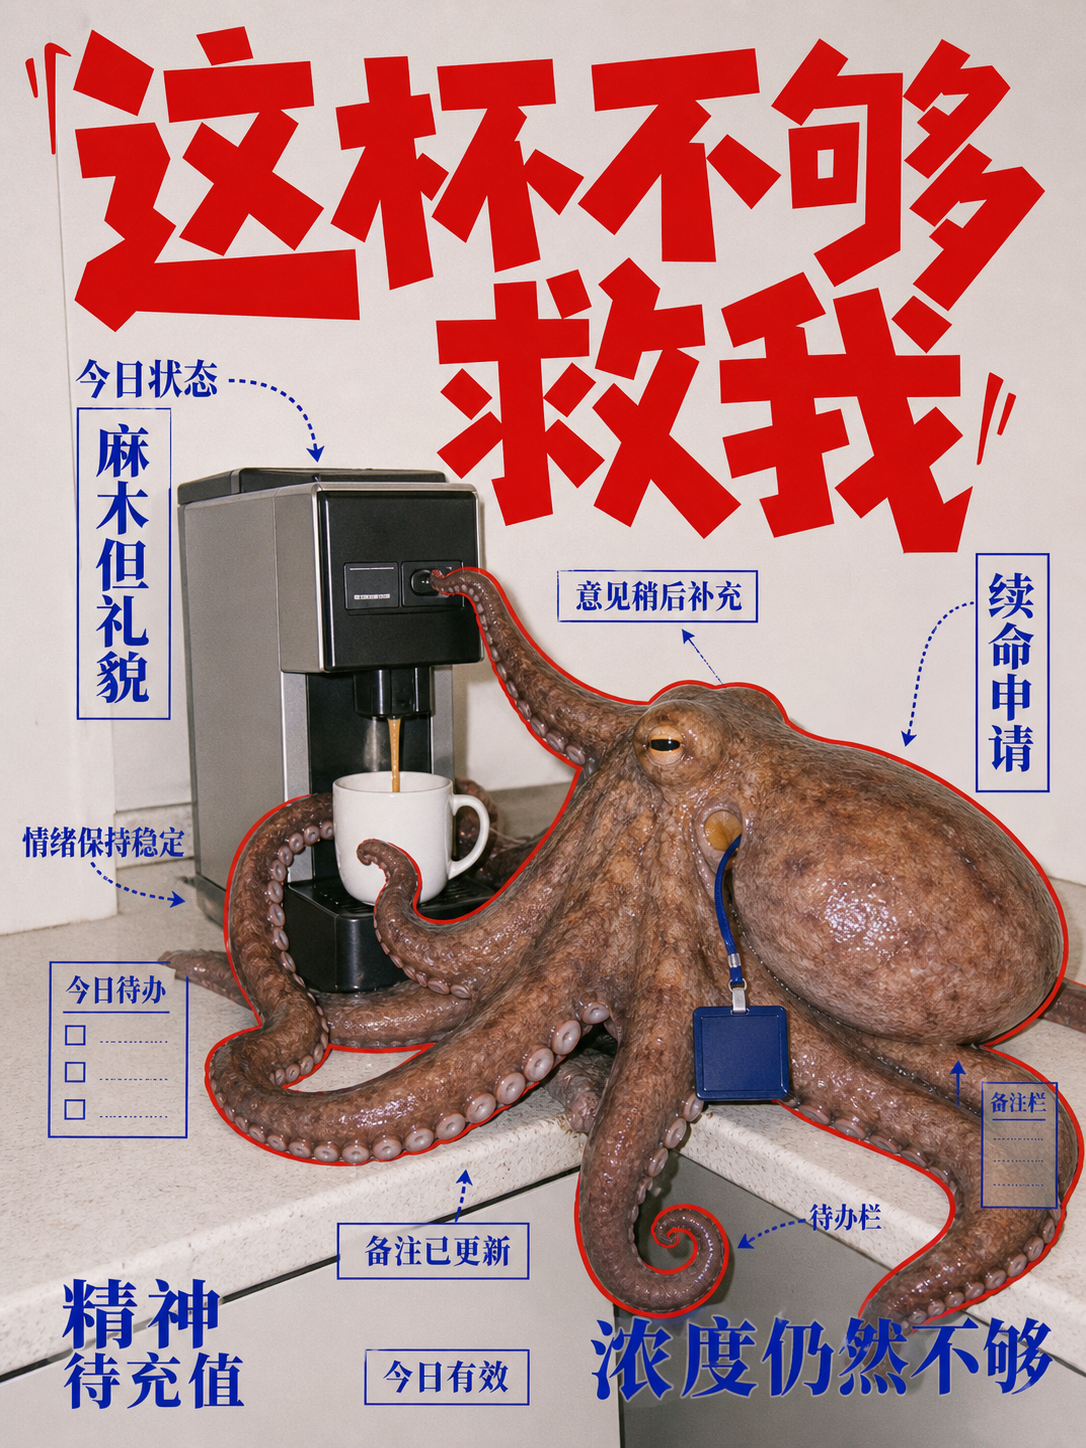
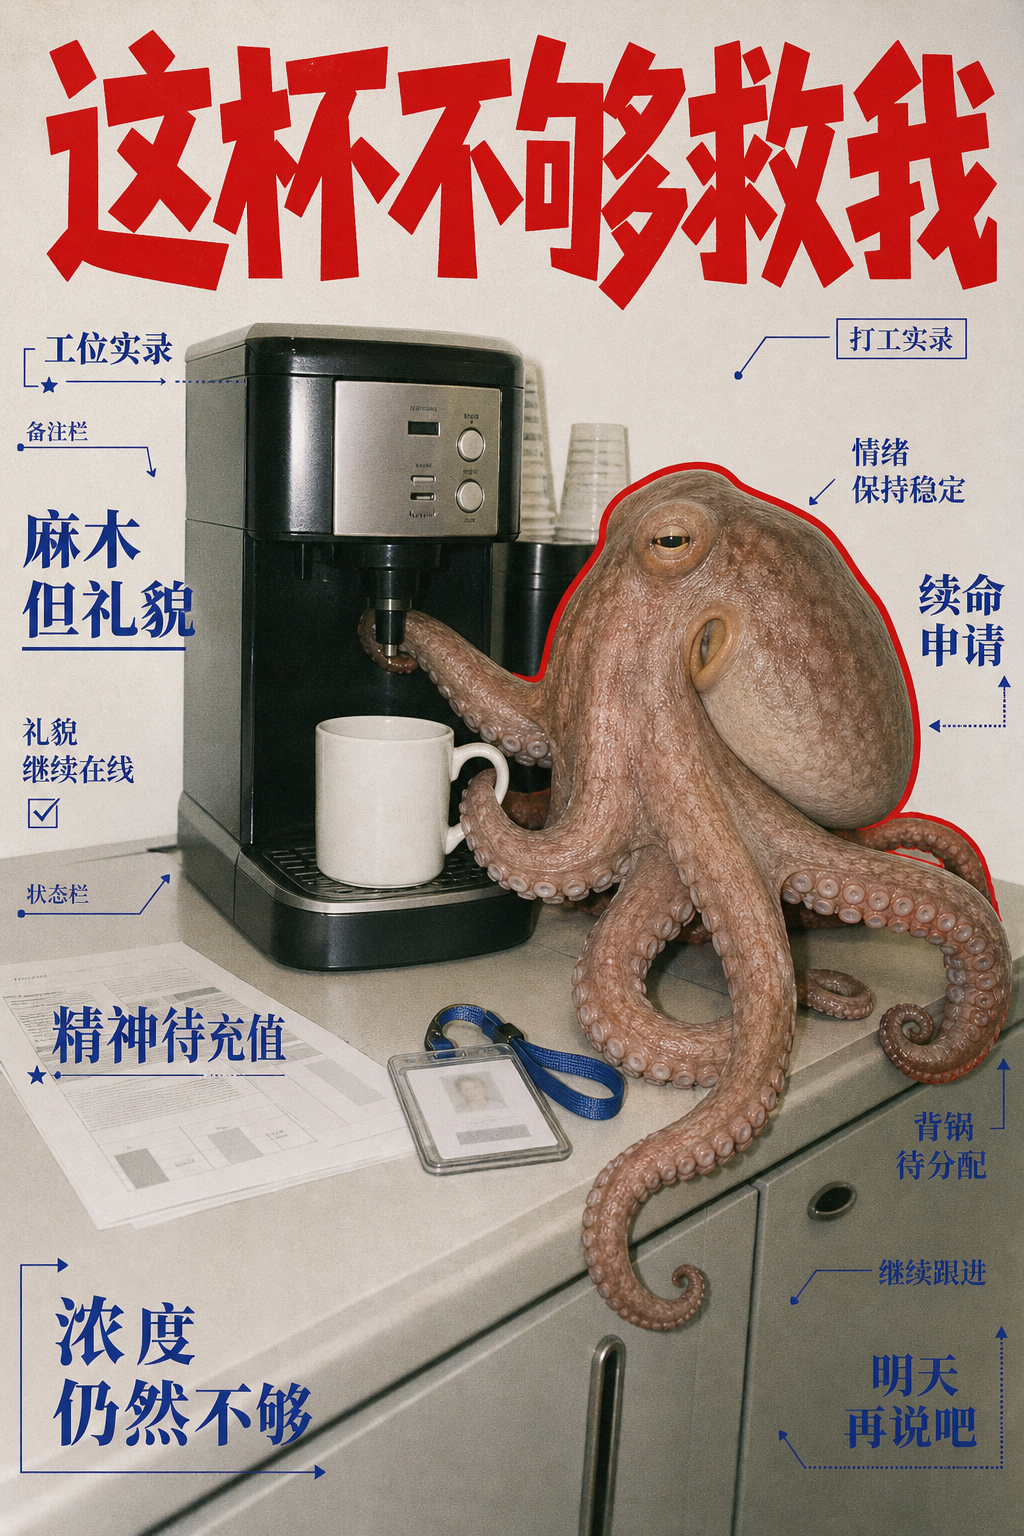
Release office-animals Skill v1.1.0

diff --git a/skills/office-animals/scripts/draw_brief.py b/skills/office-animals/scripts/draw_brief.py
@@ -50,30 +50,63 @@ MOOD_KEYWORD_COPY = [
     (("下班", "来活"), ["新任务已送达", "下班暂缓执行", "截止时间很近"]),
 ]
 
+OPENER_COPY = [
+    "今日状态",
+    "工位实录",
+    "打工观察",
+    "班味监测",
+    "现场速报",
+    "牛马日志",
+    "精神状况",
+    "上班记录",
+]
+
 AUXILIARY_COPY = [
     "今日待办",
-    "任务进行中",
-    "稍后回复",
-    "继续跟进",
-    "保持在线",
-    "进度同步",
+    "装忙进行中",
+    "背锅待分配",
+    "需求又变了",
+    "已改第五版",
+    "会议仍在开",
+    "下班遥遥无期",
+    "工资尚未到账",
+    "周报待提交",
+    "老板已读未回",
+    "摸鱼被迫中断",
+    "电量严重不足",
+    "灵感已经枯竭",
+    "心已提前下班",
+    "人还留在工位",
+    "咖啡第三杯",
+    "明天再说吧",
+    "责任正在转移",
+    "进度靠意志力",
+    "问题继续增加",
     "结论待定",
     "等待确认",
-    "备注已更新",
     "优先处理",
     "反馈已收到",
+    "继续跟进",
     "今日有效",
 ]
 
 MICRO_COPY = [
     "状态栏",
-    "进度栏",
-    "备注栏",
     "待办栏",
+    "备注栏",
+    "进度栏",
+    "打工实录",
+    "牛马观察",
+    "加班记录",
+    "工位现场",
+    "摸鱼简报",
+    "续命档案",
+    "生存法则",
+    "打工语录",
+    "本期重点",
     "观察记录",
     "任务清单",
-    "本日进度",
-    "工作样本",
+    "今日份班味",
 ]
 
 COPY_COUNTS = {
@@ -247,7 +280,7 @@ def select_copy(
     counts = COPY_COUNTS[layout]
     core_copy = unique(core)[: counts["core"]]
     while len(core_copy) < counts["core"]:
-        for fallback in ("今日状态", "任务进行中", "稍后回复", "继续跟进", "保持在线"):
+        for fallback in AUXILIARY_COPY:
             if fallback not in core_copy:
                 core_copy.append(fallback)
                 break
@@ -310,14 +343,14 @@ def main() -> int:
         headline = args.headline.strip() if args.headline else rng.choice(
             ["今天也在上班", "事情正在发生", "先把今天过完"]
         )
-        core_copy = ["今日状态", mood, "场景观察", "任务进行中", "稍后继续"]
+        core_copy = [rng.choice(OPENER_COPY), mood, "场景观察", "进度靠意志力", "稍后继续"]
     else:
         scene = SCENES[scene_id]
         scene_label = scene["label"]
         layout = scene["layout"]
         action = scene["action"]
         headline = args.headline.strip() if args.headline else rng.choice(scene["headlines"])
-        core_copy = ["今日状态", mood, *scene["side_copy"]]
+        core_copy = [rng.choice(OPENER_COPY), mood, *scene["side_copy"]]
 
     copy_tiers = select_copy(rng, layout, core_copy, mood)
     side_copy = copy_tiers["core"] + copy_tiers["auxiliary"] + copy_tiers["micro"]

diff --git a/skills/office-animals/references/style-prompt.md b/skills/office-animals/references/style-prompt.md
@@ -23,13 +23,13 @@
 
 ## 海报系统
 
-- 顶部放置超大简体中文标题：{HEADLINE}。逐字准确，重点学习运行参考中的独立字形设计：像手工剪纸和早期 Photoshop 自制展示字，极粗笔画，横竖比例大胆拉伸，局部尖角、斜切口、外伸笔画和不对称负形；每个字的大小、宽窄、倾斜和基线略有差异，互相挤压、穿插、错位，同时保持清楚可读。颜色为朱红 。
-- 动物外轮廓添加一圈不完全规整的朱红  编辑剪贴描边，像早期 Photoshop 手工抠图标记，清楚且不发光。动物身体外缘保持干净，不沿动物毛皮身体轮廓排布蓝色文字。
-- 四周蓝色文字统一属于中文宋体家族，使用深钴蓝 。学习运行参考中不同粗度宋体的自由混排：保留三角衬线、横细竖粗和印刷铅字结构，可以压窄、拉宽、竖排和改变字距，但保持清楚的印刷字形。配细线、箭头、复选框、资料栏、小印章和少量几何编号框。核心层和辅助层沿画面四周、桌面和场景留白分散落位，形成高密度但不平均铺满的中文杂志信息层；各组文字不统一装进相同矩形框。蓝色文字不使用手写体、楷体、行书、毛笔字、圆体或现代无衬线 UI 字体。
+- 顶部放置超大简体中文标题：{HEADLINE}。逐字准确，只写这几个字，不追加句号、逗号、引号、书名号、感叹号或任何额外标点与符号。排成一行；一行放不下时按词义断成两行，不把一个完整词语拆到两行（例如「情绪」「设备」必须整词同行）。重点学习运行参考中的独立字形设计：像手工剪纸和早期 Photoshop 自制展示字，极粗笔画，横竖比例大胆拉伸，局部尖角、斜切口、外伸笔画和不对称负形；每个字的大小、宽窄、倾斜和基线略有差异，互相挤压、穿插、错位，同时保持清楚可读。颜色为朱红 `#C40D0A`。
+- 动物外轮廓添加一圈不完全规整的朱红 `#C40D0A` 编辑剪贴描边，像早期 Photoshop 手工抠图标记，清楚且不发光。动物身体外缘保持干净，不沿动物毛皮身体轮廓排布蓝色文字。
+- 四周蓝色文字统一属于中文宋体家族，使用深钴蓝 `#102C91`。学习运行参考中不同粗度宋体的自由混排：保留三角衬线、横细竖粗和印刷铅字结构，可以压窄、拉宽、竖排和改变字距，但保持清楚的印刷字形。配细线、箭头、复选框、资料栏、小印章和少量几何编号框。核心层和辅助层沿画面四周、桌面和场景留白分散落位，形成高密度但不平均铺满的中文杂志信息层；各组文字不统一装进相同矩形框。蓝色文字不使用手写体、楷体、行书、毛笔字、圆体或现代无衬线 UI 字体。
 - 建立三层宋体边注：中号核心标签使用粗宋或特粗宋 {BLUE_COPY_CORE}；小号辅助短句使用中等字重宋体 {BLUE_COPY_AUXILIARY}；极小栏目标题使用细宋或报刊宋 {BLUE_COPY_MICRO}。核心层负责读懂这次场景，辅助层负责铺开打工状态，微型层负责贴器物。三层在字号、字重、方向和框线结构上明显区分。
-- **微型与辅助字贴器物走线**：特小号边注与微型标签专门沿着画面中实际出现的具体办公器具轮廓边缘排布（如电脑显示器四周、投影幕布边框、会议白板边缘、打印机机身外沿、咖啡机侧壁、键盘边沿、文件纸张边缘、桌角边线、工牌边缘等），顺着器具外轮廓折线、竖排或贴边延伸，并搭配极细引线和指示小箭头。没有出现的器具不编造边注。
-- 只使用三组变量中提供的正确中文，逐字准确。优先完整呈现全部核心标签，再尽量呈现辅助和微型文字；空间不足时从微型层末尾开始减少。不能用乱码、伪中文、随机数字、无意义英文或重复同一句话填充密度。
+- **微型与辅助字贴器物走线**：特小号边注与微型标签沿着画面中实际出现的办公器具轮廓边缘排布，顺着器具外轮廓折线、竖排或贴边延伸，并搭配极细引线和指示小箭头。这里说的器具（显示器、投影幕、白板、打印机、咖啡机、键盘、纸张、桌角、工牌等）只用来决定文字**放在哪里**，它们的名称本身绝对不写进画面。画面里不出现任何器具名称、方位描述或「边缘」「轮廓」「外沿」「侧面」「指示灯」「刻度」这类词，也不把器具名和栏目名拼成新标签。
+- 画面中全部可读的蓝色中文，只能逐字来自本次给定的核心、辅助、微型三组变量，一个字都不额外发明。优先完整呈现全部核心标签，再尽量呈现辅助和微型文字。每一组文字在整张海报中只出现一次，不得把同一组文字放到两个位置来铺密度；也不要把核心标签额外排成一条横向流程条、目录行或页眉页脚重复一遍。空间还有富余时保留暖灰纸白留白，不新增任何文字；空间不足时从微型层末尾开始减少组数。不能用乱码、伪中文、随机数字、无意义英文、器具名称或重复词句填充密度。
 - 屏幕、投影、白板、文件、工牌和办公设备只用不可读的浅灰线条、图表、色块或空白占位表达内容，不出现三层边注清单之外的可读文字。全部可读中文只存在于红色主标题和蓝色宋体边注中。
-- 纸面和留白使用暖灰纸白 。红色标题、蓝色边注、办公室照片形成清楚的三层视觉关系。
+- 纸面和留白使用暖灰纸白 `#E3DEDA`。红色标题、蓝色边注、办公室照片形成清楚的三层视觉关系。
 
 整张图像一张真实存在过的早期中文 DTP 杂志广告，也像一份过分认真制作的社畜观察记录。完成整张海报，不输出解释、样机、边框外场景或设计软件界面。

diff --git a/skills/office-animals/SKILL.md b/skills/office-animals/SKILL.md
@@ -118,10 +118,10 @@ python3 {baseDir}/scripts/draw_brief.py [--animal 动物] [--scene 场景] [--mo
 - 摄影与质地：1990s–2000s 机顶硬直闪自然光感，正面闪光将中心动物主体、近景桌面与道具打出清脆明亮的高光反差，背景白墙保持浅亮通透，无生硬脏黑的数码暗角；全图覆有极细腻均匀的彩色胶片微粒（film grain）与早期中文杂志光滑铜版纸的轻微套印质地，复古真实且画面干净。
 - 主体：一只完整真实动物成为唯一主角；体态、关节和动作符合该动物的身体能力，办公用品按它的身体重新适配。
 - 空间：常见办公室、工位、会议室、打印区、茶水间、前台、闸机或走廊，保留生活化杂乱和可辨认的工作道具。
-- 标题：顶部超大简体中文展示字，厚重、挤压、轻微变形、紧字距，使用朱红 。
-- 边注：深钴蓝  的中文宋体家族，配细线、箭头、复选框、资料栏和小印章；核心层用粗宋或特粗宋，辅助层用中等字重宋体，微型层用细宋或报刊宋。允许压窄、拉宽、竖排和改变字距，保持印刷字形，不使用手写、楷书、行书、毛笔、圆体或现代 UI 无衬线字。
+- 标题：顶部超大简体中文展示字，厚重、挤压、轻微变形、紧字距，使用朱红 `#C40D0A`。
+- 边注：深钴蓝 `#102C91` 的中文宋体家族，配细线、箭头、复选框、资料栏和小印章；核心层用粗宋或特粗宋，辅助层用中等字重宋体，微型层用细宋或报刊宋。允许压窄、拉宽、竖排和改变字距，保持印刷字形，不使用手写、楷书、行书、毛笔、圆体或现代 UI 无衬线字。
 - 轮廓与走线：动物外缘保留一圈不完全规整的朱红编辑剪贴描边，动物身体外缘不排布蓝字；微型与辅助蓝字专门贴合画面中实际出现的办公器具外沿（屏幕、投影幕、白板、咖啡机、打印机、走线槽、水杯、工牌、资料等）排布折线、竖排并搭配极细指示箭头。
-- 纸色：暖灰纸白 ，让红、蓝和办公照片形成早期中文 DTP 杂志广告的三层关系。
+- 纸色：暖灰纸白 `#E3DEDA`，让红、蓝和办公照片形成早期中文 DTP 杂志广告的三层关系。
 - 气质：认真排版、低成本摄影、荒诞职场梗并存；画面像一张真实存在过的旧中文广告或社畜观察记录。
 
 ## 生图
@@ -137,7 +137,7 @@ python3 {baseDir}/scripts/draw_brief.py [--animal 动物] [--scene 场景] [--mo
 1. 只有一只主角动物，物种特征、身体结构和动作清楚；没有人身兽头、额外动物或无意义肢体。
 2. 办公场景与动物行为一眼可懂，道具关系符合身体能力。
 3. 大标题逐字等于 `{HEADLINE}`，字形完整、位置醒目、没有同音替换或乱码。
-4. 蓝色边注只使用三层变量中的短句。5 组核心标签应完整正确；辅助和微型层按当前版式目标数量铺开，空间不足时先减少微型层，不能用乱码补密度。三层均保持宋体印刷结构，以粗宋、中宋、细宋区分层级，没有手写或楷书气质。
+4. 蓝色边注只使用三层变量中的短句。5 组核心标签应完整正确；辅助和微型层按当前版式目标数量铺开，空间不足时先减少微型层，空间富余时留白；不能用乱码补密度，不能把同一组文字重复排在两处或额外堆成横向流程条，也不能把器具名称、方位词或「边缘」「轮廓」「外沿」这类词写成蓝字。三层均保持宋体印刷结构，以粗宋、中宋、细宋区分层级，没有手写或楷书气质。
 5. 主标题具有参考图的手工拼字特征：字面大小、宽窄、倾斜和基线有变化，带尖角切口与错位挤压；没有退回统一等宽的标准电脑字体。
 6. 朱红大标题、深钴蓝边注、暖灰纸白、红色动物描边同时成立。
 7. 版式属于所选路由，照片、标题与边注共同构图，没有退化成普通动物照片上贴几行字。

diff --git a/skills/office-animals/README.md b/skills/office-animals/README.md
@@ -2,7 +2,7 @@
 
 把动物同事送进办公室：指定动物、场景、精神状态或大标题，也可以一句“随机”抽出一套动作成立的 Y2K 中文荒诞打工海报。
 
-当前版本：`v1.0.0`
+当前版本：`v1.1.0`
 
 作者：`@威比 Hunter Wei.`（抖音、小红书同名）
 
@@ -19,12 +19,17 @@ https://github.com/Vieeeeeee/wibi-style/tree/main/skills/office-animals
 
 ## 展示图
 
-<img src="https://raw.githubusercontent.com/Vieeeeeee/wibi-style/office-animals-v1.0.0/docs/office-animals/examples/example-01.png">
-<img src="https://raw.githubusercontent.com/Vieeeeeee/wibi-style/office-animals-v1.0.0/docs/office-animals/examples/example-02.png">
-<img src="https://raw.githubusercontent.com/Vieeeeeee/wibi-style/office-animals-v1.0.0/docs/office-animals/examples/example-03.png">
-<img src="https://raw.githubusercontent.com/Vieeeeeee/wibi-style/office-animals-v1.0.0/docs/office-animals/examples/example-04.png">
-<img src="https://raw.githubusercontent.com/Vieeeeeee/wibi-style/office-animals-v1.0.0/docs/office-animals/examples/example-05.png">
-<img src="https://raw.githubusercontent.com/Vieeeeeee/wibi-style/office-animals-v1.0.0/docs/office-animals/examples/example-06.png">
+以下六张全部是本 Skill 的实际生成结果，不包含任何手工制作或项目既有素材。
+
+<p align="center">
+  <img src="https://raw.githubusercontent.com/Vieeeeeee/wibi-style/office-animals-v1.1.0/docs/office-animals/examples/example-01.png" width="30%" />
+  <img src="https://raw.githubusercontent.com/Vieeeeeee/wibi-style/office-animals-v1.1.0/docs/office-animals/examples/example-02.png" width="30%" />
+  <img src="https://raw.githubusercontent.com/Vieeeeeee/wibi-style/office-animals-v1.1.0/docs/office-animals/examples/example-03.png" width="30%" />
+  <br />
+  <img src="https://raw.githubusercontent.com/Vieeeeeee/wibi-style/office-animals-v1.1.0/docs/office-animals/examples/example-04.png" width="30%" />
+  <img src="https://raw.githubusercontent.com/Vieeeeeee/wibi-style/office-animals-v1.1.0/docs/office-animals/examples/example-05.png" width="30%" />
+  <img src="https://raw.githubusercontent.com/Vieeeeeee/wibi-style/office-animals-v1.1.0/docs/office-animals/examples/example-06.png" width="30%" />
+</p>
 
 ## 怎么玩
 
@@ -69,7 +74,7 @@ https://github.com/Vieeeeeee/wibi-style/tree/main/skills/office-animals
 
 ## 当前验证状态
 
-Skill 结构、随机脚本、欢迎卡、动态文案密度和单张内置字体参考已经完成本地检查。水豚周会经过六轮受控迭代；随后随机生成浣熊、猩猩、鹿、鹅和章鱼五张，覆盖五个动物家族、五个场景与三种版式。红色手工拼字、粗宋／中宋／细宋边注和参考内容隔离均成立；五张计划 65 组蓝字，实际正确呈现 64 组，其中 25 组核心文案全部出现。当前等待用户视觉确认，尚未选择六张展示图，也未进入发布流程。
+水豚周会经过六轮受控迭代定版；随后随机生成浣熊、猩猩、鹿、鹅和章鱼，覆盖五个动物家族、五个场景与三种版式。红色手工拼字、粗宋／中宋／细宋三层边注、蓝字贴器物走线和参考内容隔离均成立；标题按词义断行、不追加多余标点，同一组蓝字在整张图中只出现一次。随机脚本、欢迎卡与更新查询只使用 Python 标准库，不联网上传任何用户数据。
 
 ## 内置参考职责
 

diff --git a/docs/office-animals/SOURCES.md b/docs/office-animals/SOURCES.md
@@ -4,11 +4,11 @@
 
 | 展示图 | 项目内生成结果 | SHA-256 |
 | --- | --- | --- |
[12 lines of base64/hex data omitted]
 
 作者：`@威比 Hunter Wei.`（抖音、小红书同名）。展示许可不等于案例原图或第三方元素的独立授权。
